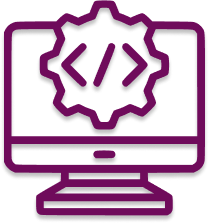
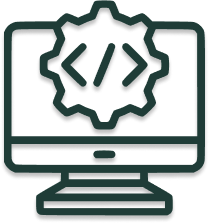
updated overview and index page with new graphics

diff --git a/public/quick_facts.html b/public/quick_facts.html
@@ -30,122 +30,146 @@
     
     <!-- Imported Functions -->
     <script src="js/table.js"></script>
+    <!-- JS graph and tab switch functions -->
+    <script src="js/comparison_graphs.js"></script>   
+    <script src="js/tab_graphs.js"></script>
+
+    <script src="js/data.js"></script>
+    <script src="js/parse.js"></script>
+    <script src="js/visualizations/graph_contributor.js"></script> 
+    <script src="js/visualizations/graph_commit.js"></script>
 </head>
 
 
-    <body id="quick-facts">
-    <div class="bg-white font-family-karla">
-        <!-- Top Bar Nav -->
-        <div id="navigation"></div>
-        <script> 
-            $(function(){
-                $("#navigation").load("nav.html"); 
-            });
-        </script> 
+    <body id="quick-facts w-full h-full">
+        <div class="bg-white font-family-karla w-full h-full">
+            <!-- Top Bar Nav -->
+            <div id="navigation"></div>
+            <script> 
+                $(function(){
+                    $("#navigation").load("nav.html"); 
+                });
+            </script>
+        
 
-        <div class="w-full p-16">
-            <a class="mt-24 font-bold text-primary uppercase text-7xl font-family-bebas">
-                <center>Quick Facts of Census Data</center>
-            </a>
-        </div>
-
-        <div class="px-14 pb-24">
-            <div class="container">
-
-                <!-- Dropdown for Topic Selection -->
-                <label for="topic-select" class="font-bold"></label>
-                <select name="topic" id="topic-select" onchange="update()" class="form-select appearance-none 
-                    block
-                    shadow-lg
-                    w-2/5
-                    px-2
-                    py-1
-                    my-3
-                    text-base
-                    font-normal
-                    text-gray-700
-                    bg-white bg-clip-padding bg-no-repeat
-                    border border-solid border-gray-300
-                    rounded
-                    transition
-                    ease-in-out
-                    m-0
-                    focus:text-gray-700 focus:bg-white focus:border-blue-600 focus:outline-none" aria-label="Default select">
-                    <option value="" selected disabled hidden> --Select a Topic-- </option>
-                    <option value="Largest Ecosystem">Largest Ecosystem</option>
-                    <option value="Community Highest Women Percentage">Community with highest women percentage</option>
-                    <option value="Community Lowest Women Percentage">Community with lowest women percentage</option>
-                    <option value="Women Percentage All 2008">Women's % among all contributors in 2008</option>
-                    <option value="Women Percentage Core 2008">Women's % among core contributors in 2008</option>
-                    <option value="Women Percentage All 2021">Women's % among all contributors in 2021</option>
-                    <option value="Women Percentage Core 2021">Women's % among core contributors in 2021</option>
-                    <option value="Community Highest Hazard">Community with highest hazard ratio</option>
-                </select>
-
-                <p id="table" style="display: none">Largest Ecosystem</p>
-
-                <table id="BigTable" class="table-auto w-full mt-8 rounded">
-                    <thead>
-                    <tr class="text-left headerPadding">
-                        <th>Topic</th>
-                        <th>OSS</th>
-                        <th>Public</th>
-                    </tr>
-                    </thead>
-                    <tbody>
-                    <tr class="tablePadding">
-                        <td>Largest Ecosystem</td>
-                        <td>npm</td>
-                        <td>JavaScript</td>
-                    </tr>
-                    
-                    <tr class="tablePadding">
-                        <td>Community with highest women percentage</td>
-                        <td>CRAN</td>
-                        <td>HTML</td>
-                    </tr>
-                    <tr class="tablePadding">
-                        <td>Community with lowest women percentage</td>
-                        <td>C</td>
-                        <td>CPAN</td>
-                    </tr>
-                    <tr class="tablePadding">
-                        <td>Women's % among all contributors in 2008</td>
-                        <td>2.25%</td>
-                        <td>3.64%</td>
-                    </tr>
-                    <tr class="tablePadding">
-                        <td>Women's % among core contributors in 2008</td>
-                        <td>2.13%</td>
-                        <td>3.69%</td>
-                    </tr>
-                    <tr class="tablePadding">
-                        <td>Women's % among all contributors in 2021</td>
-                        <td>4.87%</td>
-                        <td>6.87%</td>
-                    </tr>
-                    <tr class="tablePadding">
-                        <td>Women's % among core contributors in 2021</td>
-                        <td>5.27%</td>
-                        <td>7.09%</td>
-                    </tr>
-                    <tr class="tablePadding">
-                        <td>Community with highest hazard ratio</td>
-                        <td>PyPI</td>
-                        <td></td>
-                    </tr>
-                    </tbody>
-                </table>
-
+            <div class="w-full h-gradient bg-contain bg-no-repeat" style="background-image: url('img/GreenGradient.png');">
+                <article class="flex flex-row md:flex-row pl-24">
+                    <div class ="flex flex-col w-full">
+                        <div class="items-center">
+                            <p class = "font-family-bebas mt-24 text-white text-9xl pb-2">Census Overview</p>
+                        </div>               
+                        <p class = "w-full mt-4 md:mt-4 text-4xl font-family-quicksand1 uppercase text-white font-light tracking-wider leading-relaxed">
+                            Interact and explore data <br> 
+                            concerning all ecosystems<br> 
+                            for all years
+                        </p> 
+                    </div>
+        
+                </article>
+                
             </div>
-        </div>
 
-        <footer id="footer" class="pt-24"></footer>
-        <script> 
-            $(function(){
-                $("#footer").load("footer.html"); 
-            });
-        </script> 
-    </div>
-</body>
+            <div class="w-full p-16 flex flex-col text-center">
+                <div class="font-bold text-primary uppercase text-7xl font-family-bebas">
+                    Quick Facts
+                </div>
+                <div class="pt-4 text-gray-300 uppercase text-2xl">
+                    View a summary outlining important distinctions between <br> open-source software libraries and public repositories
+                </div>
+
+                <div class="px-14 py-24 flex flex-row justify-center">
+                    <img src="img/Table.png" alt="Table" class="w-3/4 h-3/4"/>
+                </div>
+            </div>
+
+
+            <div class = "flex flex-row w-full h-max pl-24 py-32">
+                <div class="flex flex-col w-1/2 h-full mr-16">
+                    <div class="h-buttonheight flex flex-row justify-around items-stretch gap-x-1">
+                        <button id="cont-button" class="w-full h-full bg-primary hover:bg-green-900 text-white text-lg font-semibold rounded-t-2xl" onclick="updateTab('cont', 'All')">Contributors</button>
+                        <button id="comm-button" class="w-full h-full bg-gray-300 hover:bg-gray-500 text-white text-lg font-semibold rounded-t-2xl" onclick="updateTab('comm', 'All')">Commits</button>
+                    </div>
+                    
+                    <!-- Interactive charts -->
+                    <div id="cont" alt="Graph1" style="display: show" class="flex-col items-center w-full h-full">                
+                        <a href="#" class="hover:opacity-75 my-4 md:w-3/3">
+                            <figure class="highcharts-figure">
+                                <div id="cont-1"></div>
+                                <!-- JS file link -->
+                                <script> 
+                                    parseData("Contributor", "All");
+                                    graphContributor("1");
+                                </script>
+                                <script src="https://blacklabel.github.io/grouped_categories/grouped-categories.js"></script>    
+                            </figure>
+                        </a>
+                    </div>
+            
+                    <div id="comm" alt="Graph1" style="display: none" class="flex-col items-center w-full h-full">
+                        <a href="#" class="hover:opacity-75 my-4 md:w-3/3">
+                            <figure class="highcharts-figure">
+                                <div id="comm-1"></div> 
+                                <!-- JS file link -->
+                                <script src="https://blacklabel.github.io/grouped_categories/grouped-categories.js"></script>    
+                            </figure>
+                        </a>
+                    </div>
+                </div>
+                <div class = "flex flex-col w-2/5">
+                    <div class="text-2xl text-justify pr-24">
+                        In the beginning (2008), 
+                        <span class="text-primary font-bold">female contributors took up less than 3% of all active contributor population</span>
+                        and number of commits.
+                        <br><br>By the end of our data, 
+                        <span class="text-primary font-bold">female participation has increased for all three aspects.</span>
+                        Female ratio grew to 
+                        <span class="text-primary font-bold">7.96%</span>
+                        among all and
+                        <span class="text-primary font-bold">6.0%</span>
+                        among core contributors; the ratio of female-authored commits reached
+                        <span class="text-primary font-bold">10.98%;</span>
+                        and as many as
+                        <span class="text-primary font-bold">19.3%</span>
+                        projects had at least one female contributor. 
+                    </div>
+    
+                </div>
+            </div>
+    
+            <div class = "flex flex-row w-full h-max pl-40 py-32">
+                <div class = "flex flex-col w-2/5">
+                    <div class="text-2xl text-justify">
+                        In the beginning (2008), female contributors took up less than 3% of all active contributor population and number of commits.
+                        <br><br>By the end of our data, female participation has increased for all three aspects. Female ratio grew to 7.96% among all and 6.0% among core contributors; the ratio of female-authored commits reached 10.98%; and as many as 19.3% projects had at least one female contributor. 
+                    </div>
+    
+                </div>
+                <div class="flex flex-col w-1/2 h-full mr-24 m-auto">
+                    <img src="img/OverviewGraph2.png" alt="Graph1" class="h-full" />
+                </div>
+                
+            </div>
+            <div class = "flex flex-row w-full h-max pl-24 py-32">
+                <div class="flex flex-col w-1/2 h-full mr-16">
+                    <img src="img/OverviewGraph3.png" alt="Graph1" class="h-full" />
+                </div>
+                <div class = "flex flex-col w-2/5">
+                    <div class="text-2xl text-justify pr-24">
+                        In the beginning (2008), female contributors took up less than 3% of all active contributor population and number of commits.
+                        <br><br>By the end of our data, female participation has increased for all three aspects. Female ratio grew to 7.96% among all and 6.0% among core contributors; the ratio of female-authored commits reached 10.98%; and as many as 19.3% projects had at least one female contributor. 
+                    </div>
+    
+                </div>
+                
+                
+            </div>
+
+            <footer id="footer" class="pt-24"></footer>
+            <script> 
+                $(function(){
+                    $("#footer").load("footer.html"); 
+                });
+            </script> 
+        </div>
+    </body>
 </html>

diff --git a/public/nav.html b/public/nav.html
@@ -1,4 +1,4 @@
-<nav class="w-full h-full bg-white py-2 shadow-lg">
+<nav class="w-full bg-white py-2 shadow-lg fixed">
     <div class="nav-margin">
         <div class="flex justify-between">
 
@@ -7,19 +7,29 @@
                 <img src="img/CensusLogo.png" alt="Logo" id="logo" class="object-scale-down" />
             </a>
             <div class="top-0 right-0 flex flex-wrap items-center justify-between">
-                <nav>
-                    <ul class="flex items-center justify-between font-bold text-nav uppercase no-underline">
-                        <li id="index"><a class="hover:text-gray-200 px-4" href="index.html">Home</a></li>
-                        <li id="quick-facts"><a class="hover:text-gray-200 px-4" href="quick_facts.html">Quick Facts</a></li>
-                        <li id="overview"><a class="hover:text-gray-200 px-4" href="overview.html">Overview</a></li>
-                        <li id="ecosystem"><a class="hover:text-gray-200 px-4" href="ecosystem.html">Ecosystems</a></li>
-                        <li id="comparison"><a class="hover:text-gray-200 px-4" href="comparison.html">Comparisons</a></li>
-                        <li id="what-to-do"><a class="hover:text-gray-200 px-4" href="what-to-do.html">What To Do</a></li>
-                        <li id="data"><a class="hover:text-gray-200 px-4" href="data.html">Methods</a></li>
-                        <li id="references"><a class="hover:text-gray-200 px-4" href="references.html">References</a></li>
-                    </ul>
-                </nav>
+                <ul class="flex items-center justify-between font-bold text-nav uppercase no-underline">
+                    <li id="index"><a class="hover:text-gray-200 px-4" href="index.html">Home</a></li>
+                    <li id="quick-facts"><a class="hover:text-gray-200 px-4" href="quick_facts.html">Quick Facts</a></li>
+                    <li id="overview"><a class="hover:text-gray-200 px-4" href="overview.html">Overview</a></li>
+                    <li id="ecosystem"><a class="hover:text-gray-200 px-4" href="ecosystem.html">Ecosystems</a></li>
+                    <li id="comparison"><a class="hover:text-gray-200 px-4" href="comparison.html">Comparisons</a></li>
+                    <li id="what-to-do"><a class="hover:text-gray-200 px-4" href="what-to-do.html">What To Do</a></li>
+                    <li id="data"><a class="hover:text-gray-200 px-4" href="data.html">Methods</a></li>
+                    <li id="references"><a class="hover:text-gray-200 px-4" href="references.html">References</a></li>
+                </ul>
             </div>
+        </div>
+    </div>
+</nav>
+
+<!-- placeholder nav bar so that the padding is correct for overlapping content-->
+<nav class="w-full bg-white py-2 shadow-lg">
+    <div class="nav-margin">
+        <div class="flex justify-between">
+            <!-- Logo -->
+            <a href="#" class="flex items-center">
+                <img src="img/CensusLogo.png" alt="Logo" id="logo" class="object-scale-down" />
+            </a>
         </div>
     </div>
 </nav>

diff --git a/public/index.html b/public/index.html
@@ -94,7 +94,7 @@
 
             </div>
         
-        <div class="w-full h-full bg-midbar py-16">
+        <div class="w-full h-full bg-midbar padding-mid">
             <div class="flex flex-col items-center">
                 <span class="font-bold text-primary3 text-sideHeader">
                     OUR MISSION
@@ -124,7 +124,7 @@
                     </p>
                 </a>
                 <a class="flex flex-col content-center" href="overview.html">
-                    <img src="img/Clipboard.png" alt="Hands" class="icons-dimensions self-center"/>
+                    <img src="img/Clipboard.png" alt="Hands" class="icons-dimensions2 self-center"/>
                     <p class="w-8/12 tracking-wider text-center leading-relaxed self-center pt-4 text-icons">A comprehensive report of statistics on core vs. all (tentative wording)
                     </p>
                 </a>

diff --git a/public/js/tab_graphs.js b/public/js/tab_graphs.js
@@ -53,7 +53,7 @@ function changeGraph(default_ecosystem) {
         if (currType == type) {
             // display selected graph type
             currHTML.setAttribute("style", "display:show");
-            currButton.setAttribute("class", "w-full h-full bg-primary hover:bg-purple-900 text-white text-lg font-semibold rounded-t-2xl")
+            currButton.setAttribute("class", "w-full h-full bg-primary hover:bg-green-900 text-white text-lg font-semibold rounded-t-2xl")
         }
         else {
             currHTML.setAttribute("style", "display:none");

diff --git a/public/css/default.css b/public/css/default.css
@@ -78,6 +78,10 @@ li#index  { color:purple; font-weight: bold;}
     height:8vw;
     width:7.5vw;
 }
+.icons-dimensions2{
+    height:8vw;
+    width:6.5vw;
+}   
 
 .margin-top {
     margin-top: 40px;
@@ -90,6 +94,11 @@ li#index  { color:purple; font-weight: bold;}
 .padding-header {
     padding-top: 4vw;
     padding-bottom: 3vw;
+}
+
+.padding-mid {
+    padding-top: 4vw;
+    padding-bottom: 4vw;
 }
 
 .main-margin {

diff --git a/public/css/subpage.css b/public/css/subpage.css
@@ -31,9 +31,11 @@
 .w-128{
     width: 450px;
 }
+
 .bg-primary{
-    background: #732867;
+    background: #2F3E46;
 }
+
 .bg-footer{
     background: #F1F1F1;
 }
@@ -136,6 +138,10 @@ tr.headerPadding>th {
 td, th {
     border: 1px solid #ccc;
     /* border-width border-style border-color */
+}
+
+.h-gradient{
+    height: 40vw;
 }
 
 #logo {

diff --git a/public/data.html b/public/data.html
@@ -13,7 +13,7 @@
 
     <link rel="stylesheet" href="css/subpage.css">
     <style>
-        li#data  { color: purple; font-weight: bold;} 
+        li#data  { color: green; font-weight: bold;} 
     </style>
 
 
